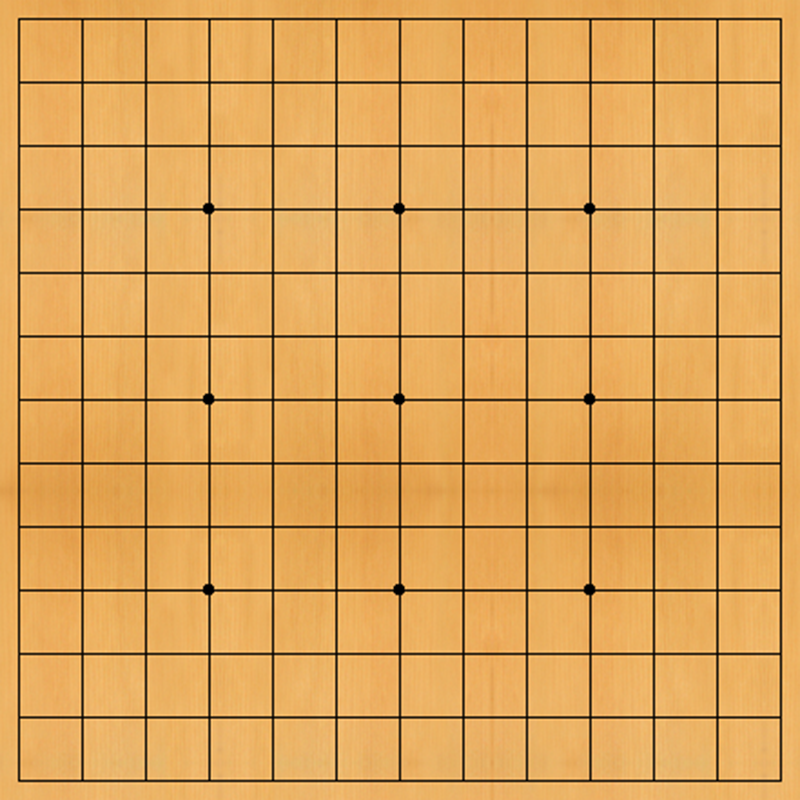
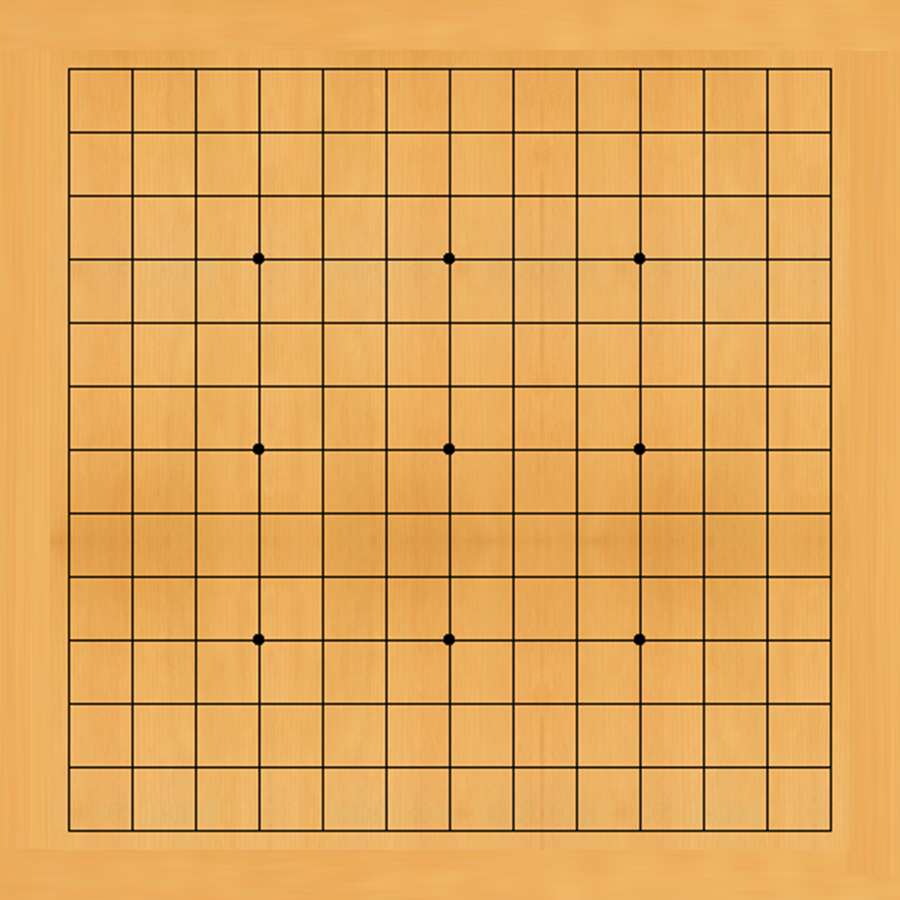
Parametre

Changed region(s): [[0.0, 0.0, 1.0, 1.0]]

diff --git a/Panel.java b/Panel.java
@@ -10,6 +10,7 @@ public class Panel extends JPanel{
 
 	public Image pionn;
 	public Image pionnt;
+	public Image pionbt;
 	public Image pionb;
 	public int[][] plateau;
 	public boolean init;
@@ -24,11 +25,12 @@ public class Panel extends JPanel{
 		addMouseListener(fenetre);
 		addMouseMotionListener(fenetre);
 
-		goban = Toolkit.getDefaultToolkit().getImage("goban9.png");
-		pionn = Toolkit.getDefaultToolkit().getImage("pionnoir9.png");
-		pionnt = Toolkit.getDefaultToolkit().getImage("pionnoir9t.png");
-		pionb = Toolkit.getDefaultToolkit().getImage("pionblanc9.png");
-		plateau = new int[9][9];
+		goban = Toolkit.getDefaultToolkit().getImage("goban"+fenetre.param.size+".png");
+		pionn = Toolkit.getDefaultToolkit().getImage("pionnoir"+fenetre.param.size+".png");
+		pionnt = Toolkit.getDefaultToolkit().getImage("pionnoir"+fenetre.param.size+"t.png");
+		pionbt = Toolkit.getDefaultToolkit().getImage("pionblanc"+fenetre.param.size+"t.png");
+		pionb = Toolkit.getDefaultToolkit().getImage("pionblanc"+fenetre.param.size+".png");
+		plateau = new int[fenetre.param.size][fenetre.param.size];
 		init = false;
 		j=1;
 		lasty = 0;
@@ -52,6 +54,9 @@ public class Panel extends JPanel{
 				else if (plateau[x][y] == 3) {
 					g.drawImage(pionnt,pox,poy,this);				
 				}
+				else if (plateau[x][y] == 4) {
+					g.drawImage(pionbt,pox,poy,this);				
+				}
 			}
 		}
 	}
@@ -70,7 +75,7 @@ public class Panel extends JPanel{
 		int y = e.getY();
 		int x = e.getX();
 		int button = e.getButton();
-		
+		System.out.println("x "+x+" y "+y);
 		if (x>40 && y > 40 && x<850 && y < 850) {
 			if (button == MouseEvent.BUTTON1 && this.j == 1 && this.plateau[x/100][y/100]!=2  && this.plateau[x/100][y/100]!=1) {
 				this.plateau[x/100][y/100]=1;
@@ -123,7 +128,7 @@ public class Panel extends JPanel{
 							this.plateau[lastx/100][lasty/100]=0;
 										}
 						
-						this.plateau[x/100][y/100]=3;
+						this.plateau[x/100][y/100]=4;
 						
 					
 				}

diff --git a/Parametre.java b/Parametre.java
@@ -1,0 +1,88 @@
+import javax.swing.*;
+import java.awt.*;
+import java.io.*;
+import java.util.*;
+import javax.imageio.ImageIO;
+import java.awt.event.*;
+
+
+
+public class Parametre extends JPanel{
+	public JButton goban9;
+	public JButton goban13;
+	public JButton goban19;
+	public Fenetre fenetre;
+	public int size;
+
+	Parametre(Fenetre fenetre){
+		super();
+		this.setSize(1100,900);
+		this.setLocation(0,0);
+		addMouseListener(fenetre);
+		goban9=new JButton("Goban 9x9");
+		goban13=new JButton("Goban 13x13");
+		goban19=new JButton("Goban 19x19");
+		
+		goban9.addActionListener(fenetre);
+		goban13.addActionListener(fenetre);
+		goban19.addActionListener(fenetre);
+		this.add(goban9,BorderLayout.CENTER);
+		this.add(goban13,BorderLayout.CENTER);
+		this.add(goban19,BorderLayout.CENTER);
+		this.fenetre = fenetre;
+		this.size = 9;
+
+
+ 
+
+	}
+
+		@Override
+	public void paintComponent(Graphics g){
+		super.paintComponent(g);
+	
+	}
+
+	public void select(ActionEvent e){
+		Object source = e.getSource();
+		if(source == this.goban9){
+			this.size = 9;
+			fenetre.repaint();
+			fenetre.revalidate();
+
+			fenetre.setContentPane(fenetre.menu);
+			fenetre.repaint();
+			fenetre.revalidate();
+			
+	
+
+	}
+		else if(source == this.goban13){
+			this.size = 13;
+			fenetre.repaint();
+			fenetre.revalidate();
+
+			fenetre.setContentPane(fenetre.menu);
+			fenetre.repaint();
+			fenetre.revalidate();
+			
+	
+
+	}
+		else if(source == this.goban19){
+			this.size = 19;
+			fenetre.repaint();
+			fenetre.revalidate();
+
+			fenetre.setContentPane(fenetre.menu);
+			fenetre.repaint();
+			fenetre.revalidate();
+			
+	
+
+	}
+
+
+
+	}
+}

diff --git a/Fenetre.java b/Fenetre.java
@@ -8,6 +8,7 @@ import java.awt.event.*;
 public class Fenetre extends JFrame implements MouseListener,MouseMotionListener,ActionListener{
 	public Menu menu;
 	public Panel panel;
+	public Parametre param;
 	public Container container;
 	Fenetre(){
 		this.setSize(1100,928);
@@ -20,6 +21,7 @@ public class Fenetre extends JFrame implements MouseListener,MouseMotionListener
 		this.setResizable(false);
 		addMouseListener(this);
 		addMouseMotionListener(this);
+		param = new Parametre(this);
 		menu = new Menu(this);
 		this.setContentPane(menu);
 		/*this.panel = new Panel(this);
@@ -29,11 +31,11 @@ public class Fenetre extends JFrame implements MouseListener,MouseMotionListener
 
 	@Override
 	public void mouseExited(MouseEvent e){
-		System.out.println("EXITED");
+	
 	}
 	@Override
 	public void mouseEntered(MouseEvent e){
-		System.out.println("ENTERED");
+		
 	}
 	@Override
 	public void mouseReleased(MouseEvent e){}
@@ -62,7 +64,14 @@ public class Fenetre extends JFrame implements MouseListener,MouseMotionListener
 		}
 	}
 	public void actionPerformed(ActionEvent e) {
-		this.menu.jouer(e);
+		if (this.getContentPane() instanceof Menu) {
+			this.menu.jouer(e);
+		}
+		else if (this.getContentPane() instanceof Parametre) {
+			this.param.select(e);
+			
+		}
+		
 		
 	}
 

diff --git a/Menu.java b/Menu.java
@@ -49,6 +49,12 @@ public class Menu extends JPanel{
 			
 			
 		} else if(source == fenetre.menu.parametre){
+			fenetre.repaint();
+			fenetre.revalidate();
+
+			fenetre.setContentPane(fenetre.param);
+			fenetre.repaint();
+			fenetre.revalidate();
 			
 		}
 
